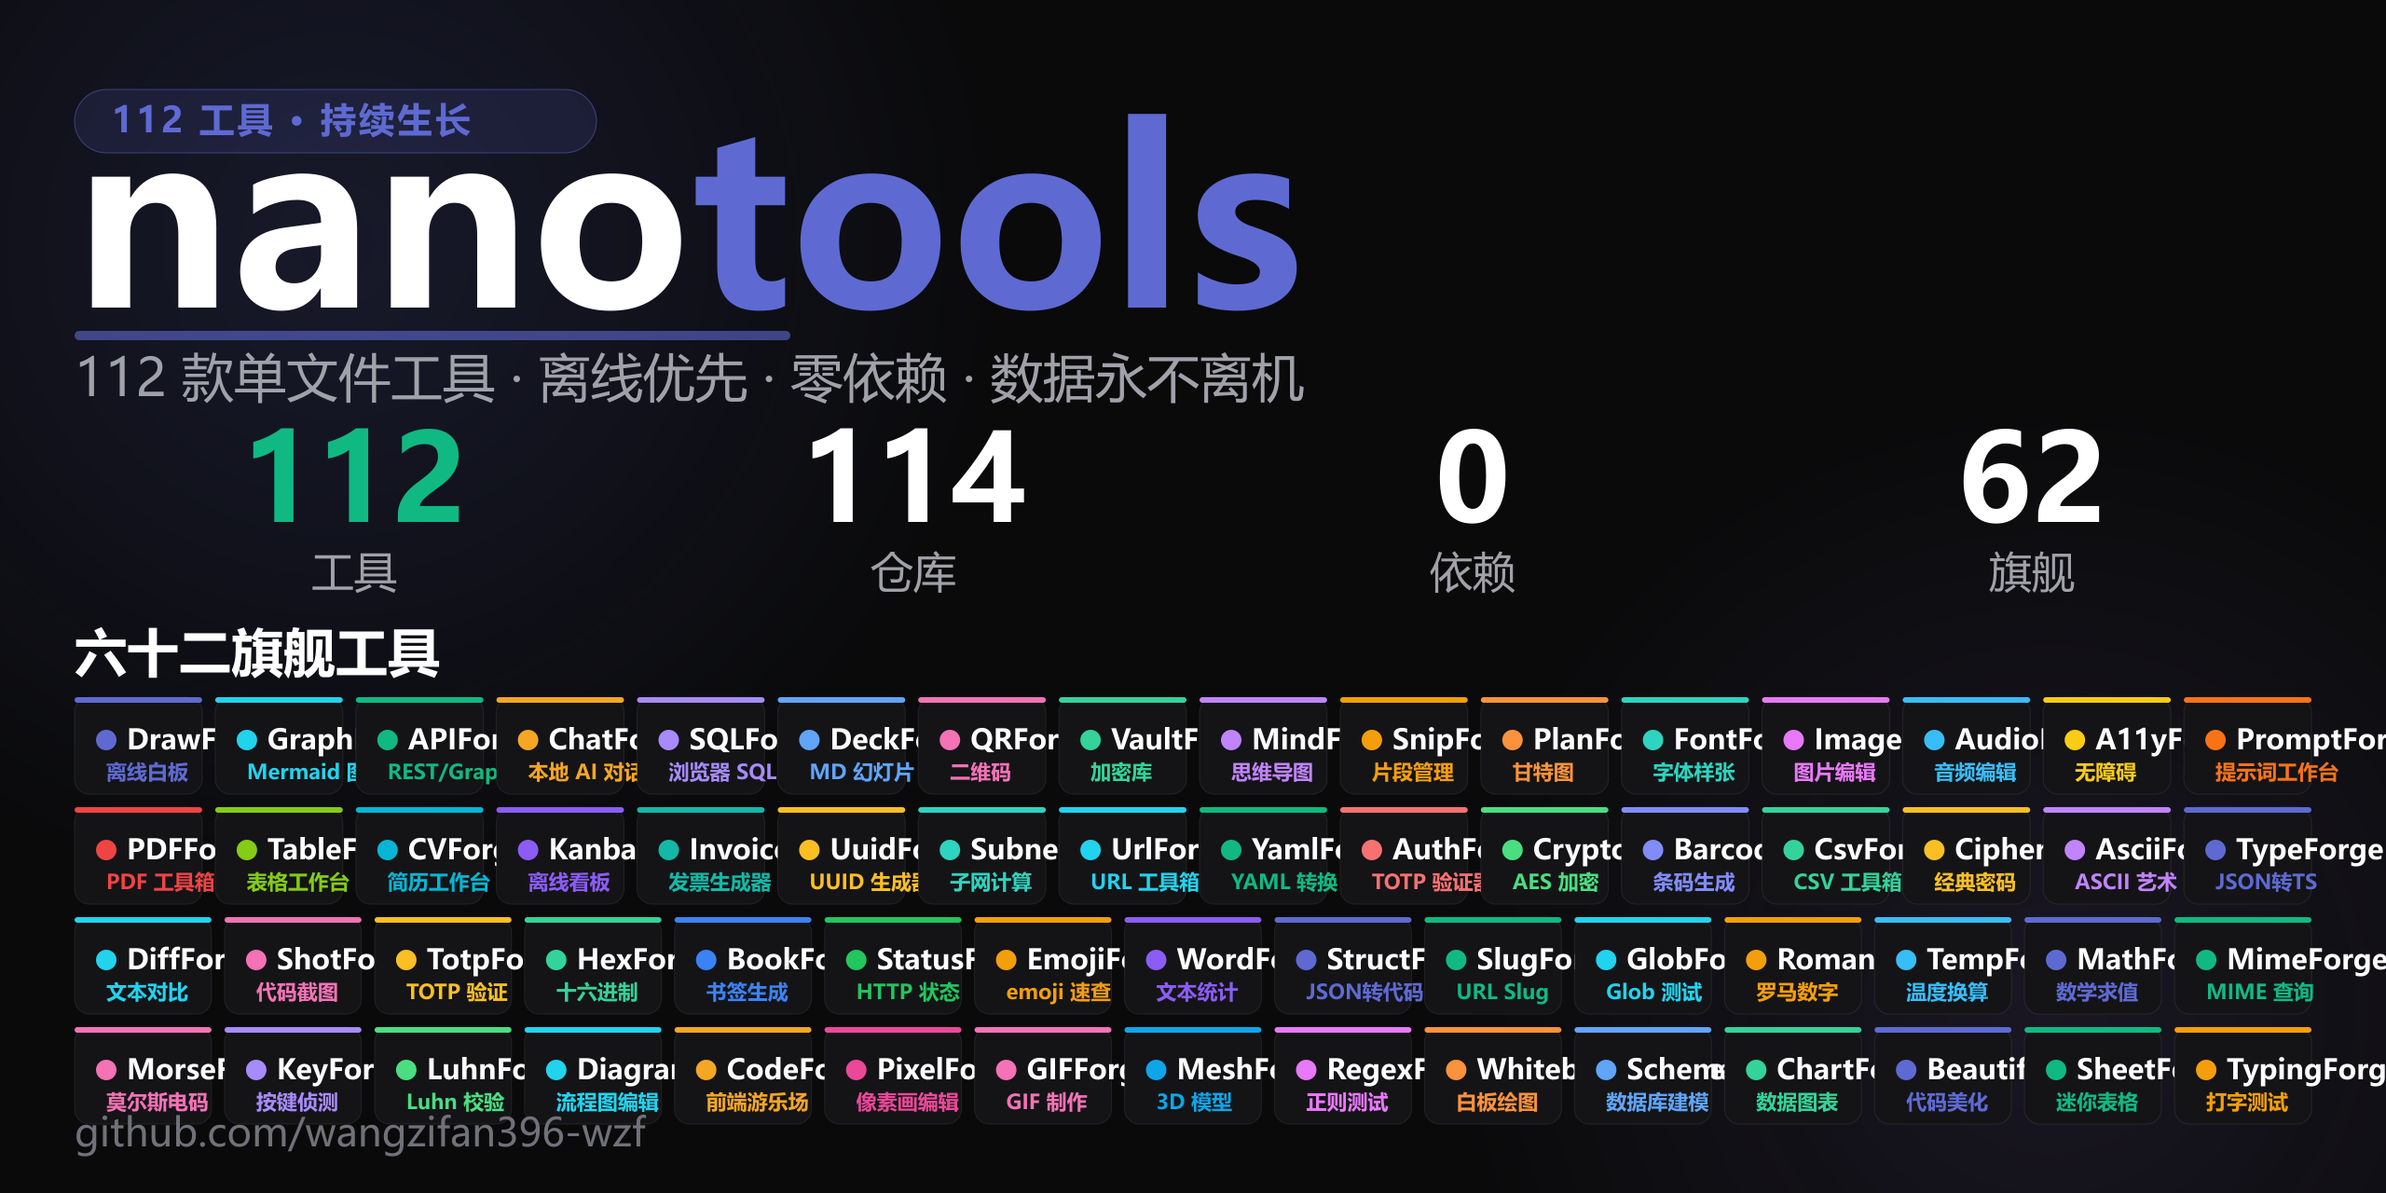
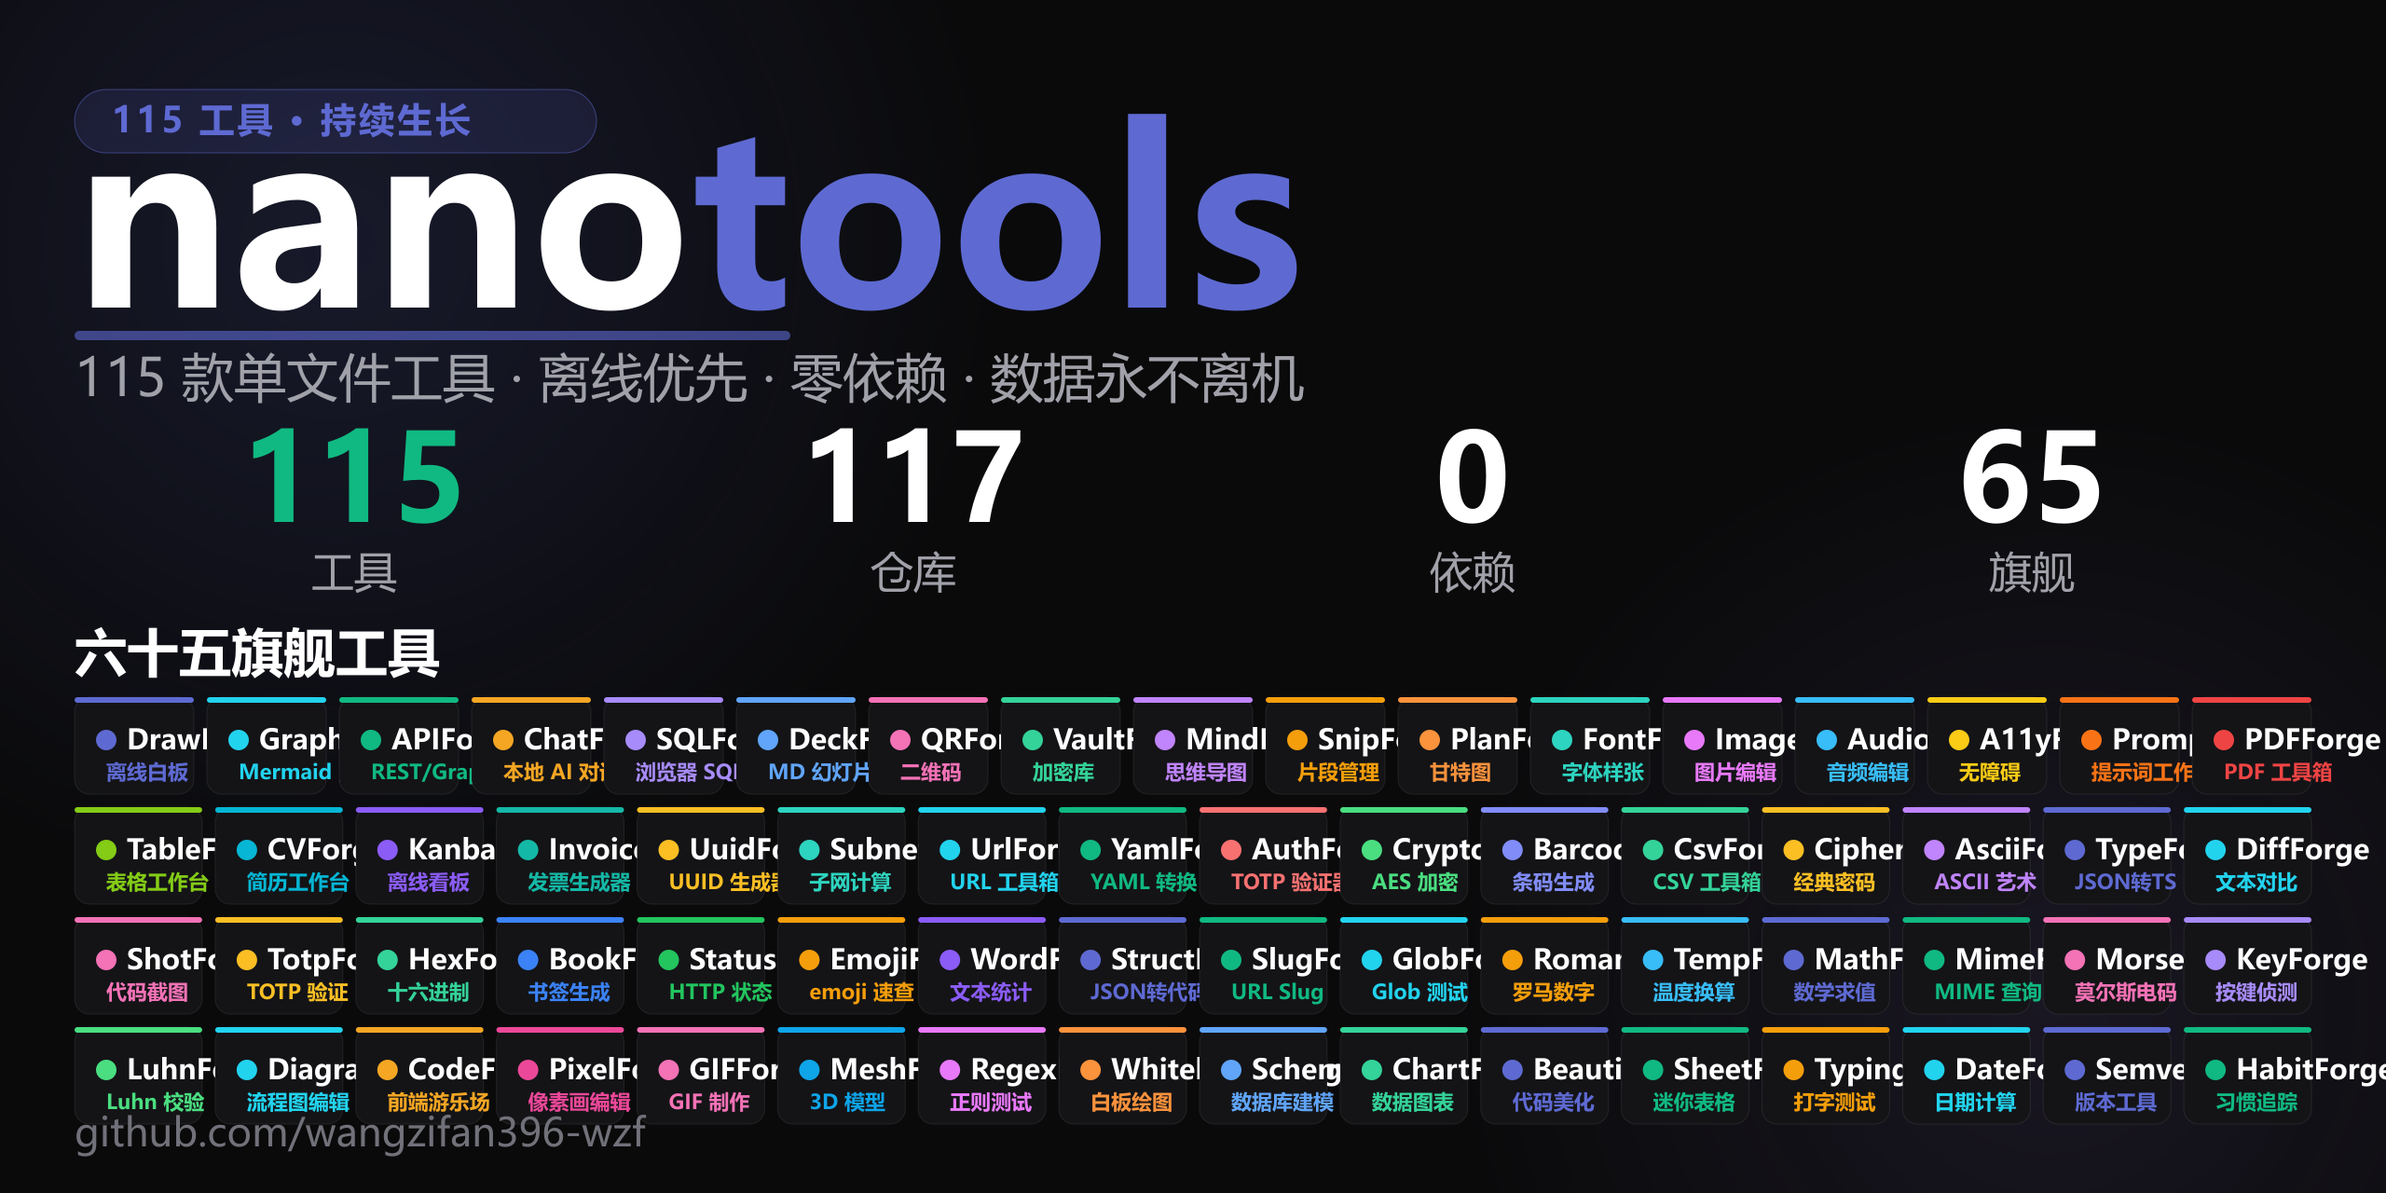
Add DateForge, SemverForge, HabitForge; matrix 115 tools / 117 repos / 65 flagships

diff --git a/index.html b/index.html
@@ -5,9 +5,9 @@
 <meta charset="UTF-8">
 <meta name="viewport" content="width=device-width, initial-scale=1.0">
 <title data-i18n="meta_title">nano-tools · 单文件零依赖工具集</title>
-<meta name="description" data-i18n="meta_desc" content="一个标签页，收纳你全部的开发者工具。112 个单文件、零依赖、本地优先的开源工具，下载即用，数据永不离机。">
+<meta name="description" data-i18n="meta_desc" content="一个标签页，收纳你全部的开发者工具。115 个单文件、零依赖、本地优先的开源工具，下载即用，数据永不离机。">
 <meta property="og:title" data-i18n="og_title" content="nano-tools · 单文件零依赖工具集">
-<meta property="og:description" data-i18n="og_desc" content="112 个单文件、零依赖、本地优先的开发者工具，下载即用，数据永不离机。">
+<meta property="og:description" data-i18n="og_desc" content="115 个单文件、零依赖、本地优先的开发者工具，下载即用，数据永不离机。">
 <meta property="og:image" content="social-preview.png">
 <meta property="og:image:width" content="1280">
 <meta property="og:image:height" content="640">
@@ -278,13 +278,13 @@
     <div class="hero-left">
       <span class="eyebrow"><span class="dot"></span><span data-i18n="hero_eyebrow">开源 · 零依赖 · 单文件</span></span>
       <h1 class="title" data-i18n-html="hero_title">一个标签页，<br>收纳你<span class="hl">全部的开发者工具</span></h1>
-      <p class="subtitle" data-i18n="hero_subtitle">112 个单文件、离线优先的开源工具，覆盖编码、转换、可视化与 AI。下载即用，数据永远留在你的浏览器里。</p>
+      <p class="subtitle" data-i18n="hero_subtitle">115 个单文件、离线优先的开源工具，覆盖编码、转换、可视化与 AI。下载即用，数据永远留在你的浏览器里。</p>
       <div class="hero-cta">
         <a class="btn primary" href="#tools" data-i18n="hero_browse">浏览工具 ↓</a>
         <a class="btn" href="https://github.com/wangzifan396-wzf" target="_blank" rel="noopener" data-i18n="hero_github">在 GitHub 查看</a>
       </div>
       <div class="hero-meta">
-        <span><b>114</b> <span data-i18n="meta_repos">开源仓库</span></span>
+        <span><b>117</b> <span data-i18n="meta_repos">开源仓库</span></span>
         <span><b>0</b> <span data-i18n="meta_deps">外部依赖</span></span>
         <span><b>100%</b> <span data-i18n="meta_local">本地运行</span></span>
       </div>
@@ -327,7 +327,7 @@
   <div class="wrap">
     <div class="sec-head reveal">
       <span class="label" data-i18n="tools_label">工具矩阵</span>
-      <h2 class="sec-title" data-i18n="tools_title">112 款精心打磨的开发者工具</h2>
+      <h2 class="sec-title" data-i18n="tools_title">115 款精心打磨的开发者工具</h2>
       <p class="sec-desc" data-i18n="tools_desc">搜索或按分类筛选，点击「在线试用」立即体验，或前往源码仓库查看实现。</p>
     </div>
     <div class="controls reveal">
@@ -385,7 +385,7 @@
 <div class="wrap">
   <div class="cta-band reveal" style="border-color:var(--acc);">
     <span class="pill ok" style="align-self:center;background:rgba(94,106,210,.16);color:#aab2f0;" data-i18n="wb_badge">★ 聚合工作台</span>
-    <h2 data-i18n="wb_title">一个标签页，收纳全部 112 款工具</h2>
+    <h2 data-i18n="wb_title">一个标签页，收纳全部 115 款工具</h2>
     <p data-i18n="wb_desc">nano-workbench：点选即在内嵌窗口运行、标签间即时切换，无需反复打开新页面。数据永不离机。</p>
     <div class="hero-cta">
       <a class="btn primary" href="https://wangzifan396-wzf.github.io/nano-workbench/" target="_blank" rel="noopener" data-i18n="wb_open">打开工作台 ↗</a>
@@ -397,7 +397,7 @@
 <div class="wrap">
   <div class="cta-band reveal">
     <h2 data-i18n="cta_title">把你下一个小工具，交给 nano-tools</h2>
-    <p data-i18n="cta_desc">114 个仓库、112 款工具，全部开源、零依赖、本地优先。</p>
+    <p data-i18n="cta_desc">117 个仓库、115 款工具，全部开源、零依赖、本地优先。</p>
     <div class="hero-cta">
       <a class="btn primary" href="#tools" data-i18n="cta_browse">开始浏览</a>
       <a class="btn" href="https://github.com/wangzifan396-wzf" target="_blank" rel="noopener">★ Star on GitHub</a>
@@ -425,16 +425,16 @@
   // 双语字典（中 / 英）。data-i18n 文本用 textContent；data-i18n-html 保留 <br>/<span> 结构；meta 改 content 属性。
   var I18N = {
     "meta_title":{zh:"nano-tools · 单文件零依赖工具集",en:"nano-tools · single-file, zero-dep tools"},
-    "meta_desc":{zh:"一个标签页，收纳你全部的开发者工具。112 个单文件、零依赖、本地优先的开源工具，下载即用，数据永不离机。",en:"One tab for all your dev tools. 112 single-file, zero-dep, local-first open-source tools. Download and use; data never leaves the browser."},
+    "meta_desc":{zh:"一个标签页，收纳你全部的开发者工具。115 个单文件、零依赖、本地优先的开源工具，下载即用，数据永不离机。",en:"One tab for all your dev tools. 115 single-file, zero-dep, local-first open-source tools. Download and use; data never leaves the browser."},
     "og_title":{zh:"nano-tools · 单文件零依赖工具集",en:"nano-tools · single-file, zero-dep tools"},
-    "og_desc":{zh:"112 个单文件、零依赖、本地优先的开发者工具，下载即用，数据永不离机。",en:"112 single-file, zero-dep, local-first dev tools. Download and use; data never leaves the browser."},
+    "og_desc":{zh:"115 个单文件、零依赖、本地优先的开发者工具，下载即用，数据永不离机。",en:"115 single-file, zero-dep, local-first dev tools. Download and use; data never leaves the browser."},
     "nav_features":{zh:"特性",en:"Features"},
     "nav_tools":{zh:"工具",en:"Tools"},
     "nav_stats":{zh:"数据",en:"Stats"},
     "nav_faq":{zh:"问答",en:"FAQ"},
     "hero_eyebrow":{zh:"开源 · 零依赖 · 单文件",en:"Open-source · Zero-dep · Single-file"},
     "hero_title":{zh:'一个标签页，<br>收纳你<span class="hl">全部的开发者工具</span>',en:'One tab, <br>for <span class="hl">all your dev tools</span>'},
-    "hero_subtitle":{zh:"112 个单文件、离线优先的开源工具，覆盖编码、转换、可视化与 AI。下载即用，数据永远留在你的浏览器里。",en:"112 single-file, offline-first open-source tools spanning encoding, conversion, visualization & AI. Download and use instantly; your data never leaves the browser."},
+    "hero_subtitle":{zh:"115 个单文件、离线优先的开源工具，覆盖编码、转换、可视化与 AI。下载即用，数据永远留在你的浏览器里。",en:"115 single-file, offline-first open-source tools spanning encoding, conversion, visualization & AI. Download and use instantly; your data never leaves the browser."},
     "hero_browse":{zh:"浏览工具 ↓",en:"Browse tools ↓"},
     "hero_github":{zh:"在 GitHub 查看",en:"View on GitHub"},
     "meta_repos":{zh:"开源仓库",en:"Open-source repos"},
@@ -450,16 +450,16 @@
     "step3_t":{zh:"单文件可携",en:"Portable single-file"},
     "step3_d":{zh:"每个工具只有一个 HTML 文件，零依赖、可随便复制分享，U 盘里也能跑。",en:"Each tool is one HTML file — zero dependencies, copy & share freely, runs from a USB stick."},
     "tools_label":{zh:"工具矩阵",en:"Tool matrix"},
-    "tools_title":{zh:"112 款精心打磨的开发者工具",en:"112 Hand-crafted Dev Tools"},
+    "tools_title":{zh:"115 款精心打磨的开发者工具",en:"115 Hand-crafted Dev Tools"},
     "tools_desc":{zh:"搜索或按分类筛选，点击「在线试用」立即体验，或前往源码仓库查看实现。",en:"Search or filter by category, hit “Live Demo” to try instantly, or visit the source repo."},
     "search_ph":{zh:"搜索工具… 试试 regex / json / 颜色 / 压缩 / 图表",en:"Search tools… try regex / json / color / compress / chart"},
     "btn_demo":{zh:"在线试用",en:"Live Demo"},
     "btn_src":{zh:"源码",en:"Source"},
     "no_result":{zh:"没有匹配的工具，换个关键词试试 🔍",en:"No matching tools — try another keyword 🔍"},
     "cta_title":{zh:"把你下一个小工具，交给 nano-tools",en:"Your next tiny tool, from nano-tools"},
-    "cta_desc":{zh:"114 个仓库、112 款工具，全部开源、零依赖、本地优先。",en:"114 repos, 112 tools. All open-source, zero-dep, local-first."},
+    "cta_desc":{zh:"117 个仓库、115 款工具，全部开源、零依赖、本地优先。",en:"117 repos, 115 tools. All open-source, zero-dep, local-first."},
     "wb_badge":{zh:"★ 聚合工作台",en:"★ Unified Workbench"},
-    "wb_title":{zh:"一个标签页，收纳全部 112 款工具",en:"All 112 tools in one tab"},
+    "wb_title":{zh:"一个标签页，收纳全部 115 款工具",en:"All 115 tools in one tab"},
     "wb_desc":{zh:"nano-workbench：点选即在内嵌窗口运行、标签间即时切换，无需反复打开新页面。数据永不离机。",en:"nano-workbench: pick a tool and run it in an embedded pane, switch tabs instantly — no more reopening pages. Data never leaves your machine."},
     "wb_open":{zh:"打开工作台 ↗",en:"Open Workbench ↗"},
     "wb_src":{zh:"查看源码",en:"View Source"},
@@ -823,7 +823,16 @@
      tags:["spreadsheet","formula","csv","grid"]},
     {id:"TypingForge", name:"TypingForge", icon:"typing", cat:"效率工具", badge:"旗舰",
      desc:"离线打字速度测试：WPM / CPM / 准确率 / 稳定性，逐字符实时高亮，15/30/60 秒模式，可复现词表与本地最佳记录。",
-     tags:["typing","wpm","test","speed"]}
+     tags:["typing","wpm","test","speed"]},
+    {id:"DateForge", name:"DateForge", icon:"date", cat:"效率工具", badge:"旗舰",
+     desc:"离线日期计算器：日期间隔（年月日精确拆分）、加减推算、ISO 周 / 年积日 / 工作日、年龄与下次生日，纯整数序列算法无时区陷阱。",
+     tags:["date","diff","iso-week","workdays","age"]},
+    {id:"SemverForge", name:"SemverForge", icon:"semver", cat:"开发辅助", badge:"旗舰",
+     desc:"离线 SemVer 2.0.0 工具箱：版本解析校验、优先级比较排序、范围匹配（^ ~ x.* || 连字符）、bump 七种递增策略与版本差异判定。",
+     tags:["semver","version","range","bump"]},
+    {id:"HabitForge", name:"HabitForge", icon:"habit", cat:"效率工具", badge:"旗舰",
+     desc:"离线习惯追踪器：每日打卡、当前 / 最长连击、近 30 天完成率、半年热力图，数据只存本地，支持 JSON 导入导出。",
+     tags:["habit","streak","heatmap","privacy"]}
   ];
 
   // 英文文案（按 id 索引；门户双语切换用）
@@ -940,7 +949,10 @@
     ChartForge:{desc:"Offline data chart generator: paste CSV / JSON / TSV, render bar / line / pie / doughnut / scatter / area charts, export PNG and SVG.", cat:"Data"},
     BeautifyForge:{desc:"Offline code beautifier & minifier for JavaScript, CSS, HTML and JSON. String / comment / regex-aware tokenizer, auto-detect language, live char count.", cat:"Dev"},
     SheetForge:{desc:"Offline mini spreadsheet with a real formula engine: A1 refs, ranges, SUM/AVG/IF/ROUND, dependency-graph recalc with cycle detection, CSV import/export.", cat:"Data"},
-    TypingForge:{desc:"Offline typing-speed test: WPM / CPM / accuracy / consistency, per-char live highlight, 15/30/60s modes, seeded reproducible word lists, local best scores.", cat:"Productivity"}
+    TypingForge:{desc:"Offline typing-speed test: WPM / CPM / accuracy / consistency, per-char live highlight, 15/30/60s modes, seeded reproducible word lists, local best scores.", cat:"Productivity"},
+    DateForge:{desc:"Offline date calculator: exact Y/M/D diff, add/subtract, ISO week, day-of-year, workdays, age & next birthday. Pure integer serial math, no timezone traps.", cat:"Productivity"},
+    SemverForge:{desc:"Offline SemVer 2.0.0 toolbox: parse & validate, precedence compare & sort, range matching (^ ~ x.* || hyphen), 7 bump strategies and release diff.", cat:"Dev"},
+    HabitForge:{desc:"Offline habit tracker: daily check-ins, current/longest streak, 30-day rate, half-year heatmap. Data stays local with JSON import/export.", cat:"Productivity"}
   };
   // 中文分类 -> 英文分类 映射
   var CAT_EN = {"全部":"All"};
@@ -1058,7 +1070,10 @@
     chart:'<path d="M4 20V10M10 20V4M16 20v-7M22 20H2"/>',
     beautify:'<path d="M15 4l1.2 3.3L19.5 8.5l-3.3 1.2L15 13l-1.2-3.3L10.5 8.5l3.3-1.2z"/><path d="M4 20l9-9"/>',
     sheet:'<rect x="3" y="4" width="18" height="16" rx="2"/><path d="M3 10h18M3 15h18M9 4v16M15 4v16"/>',
-    typing:'<rect x="3" y="7" width="18" height="10" rx="2"/><path d="M7 11h.01M11 11h.01M15 11h.01M8 14h8" stroke-linecap="round"/><path d="M9 17h6"/>'
+    typing:'<rect x="3" y="7" width="18" height="10" rx="2"/><path d="M7 11h.01M11 11h.01M15 11h.01M8 14h8" stroke-linecap="round"/><path d="M9 17h6"/>',
+    date:'<rect x="3" y="5" width="18" height="16" rx="2"/><path d="M3 10h18M8 3v4M16 3v4"/><path d="M9 15l2 2 4-4"/>',
+    semver:'<path d="M12 3l8 4.5v9L12 21l-8-4.5v-9z"/><path d="M12 12l8-4.5M12 12v9M12 12L4 7.5"/>',
+    habit:'<rect x="3" y="4" width="4" height="4" rx="1"/><rect x="10" y="4" width="4" height="4" rx="1"/><rect x="17" y="4" width="4" height="4" rx="1"/><rect x="3" y="11" width="4" height="4" rx="1"/><rect x="10" y="11" width="4" height="4" rx="1"/><path d="M17 13l1.5 1.5L21.5 11.5"/><path d="M3 20h18"/>'
   };
   function iconSvg(k){ return '<svg viewBox="0 0 24 24" fill="none" stroke="currentColor" stroke-width="1.8" stroke-linecap="round" stroke-linejoin="round">'+(ICONS[k]||"")+'</svg>'; }
 
@@ -1068,7 +1083,7 @@
   var $ = function(s,el){return (el||document).querySelector(s);};
   var state = {q:"", cat:"全部", flag:false, fav:false};
   var LANG = (function(){ try{return localStorage.getItem("nano-lang")||"zh";}catch(e){return "zh";} })();
-  var FLAG_IDS = {"DrawForge":1,"GraphForge":1,"APIForge":1,"ChatForge":1,"SQLForge":1,"DeckForge":1,"QRForge":1,"VaultForge":1,"MindForge":1,"SnipForge":1,"PlanForge":1,"FontForge":1,"ImageForge":1,"AudioForge":1,"A11yForge":1,"PromptForge":1,"PDFForge":1,"TableForge":1,"CVForge":1,"KanbanForge":1,"InvoiceForge":1,"UuidForge":1,"SubnetForge":1,"UrlForge":1,"YamlForge":1,"AuthForge":1,"CryptoForge":1,"BarcodeForge":1,"CsvForge":1,"CipherForge":1,"AsciiForge":1,"TypeForge":1,"DiffForge":1,"ShotForge":1,"TotpForge":1,"HexForge":1,"BookForge":1,"StatusForge":1,"EmojiForge":1,"WordForge":1,"StructForge":1,"SlugForge":1,"GlobForge":1,"RomanForge":1,"TempForge":1,"MathForge":1,"MimeForge":1,"MorseForge":1,"KeyForge":1,"LuhnForge":1,"DiagramForge":1,"CodeForge":1,"PixelForge":1,"GIFForge":1,"MeshForge":1,"RegexForge":1,"WhiteboardForge":1,"SchemaForge":1,"ChartForge":1,"BeautifyForge":1,"SheetForge":1,"TypingForge":1};
+  var FLAG_IDS = {"DrawForge":1,"GraphForge":1,"APIForge":1,"ChatForge":1,"SQLForge":1,"DeckForge":1,"QRForge":1,"VaultForge":1,"MindForge":1,"SnipForge":1,"PlanForge":1,"FontForge":1,"ImageForge":1,"AudioForge":1,"A11yForge":1,"PromptForge":1,"PDFForge":1,"TableForge":1,"CVForge":1,"KanbanForge":1,"InvoiceForge":1,"UuidForge":1,"SubnetForge":1,"UrlForge":1,"YamlForge":1,"AuthForge":1,"CryptoForge":1,"BarcodeForge":1,"CsvForge":1,"CipherForge":1,"AsciiForge":1,"TypeForge":1,"DiffForge":1,"ShotForge":1,"TotpForge":1,"HexForge":1,"BookForge":1,"StatusForge":1,"EmojiForge":1,"WordForge":1,"StructForge":1,"SlugForge":1,"GlobForge":1,"RomanForge":1,"TempForge":1,"MathForge":1,"MimeForge":1,"MorseForge":1,"KeyForge":1,"LuhnForge":1,"DiagramForge":1,"CodeForge":1,"PixelForge":1,"GIFForge":1,"MeshForge":1,"RegexForge":1,"WhiteboardForge":1,"SchemaForge":1,"ChartForge":1,"BeautifyForge":1,"SheetForge":1,"TypingForge":1,"DateForge":1,"SemverForge":1,"HabitForge":1};
   var FAV_KEY = "nano-favs";
   function getFavs(){ try{return JSON.parse(localStorage.getItem(FAV_KEY)||"[]");}catch(e){return [];} }
   function setFav(id,on){ var s=getFavs(); var i=s.indexOf(id); if(on&&i<0)s.push(id); if(!on&&i>=0)s.splice(i,1); try{localStorage.setItem(FAV_KEY,JSON.stringify(s));}catch(e){} }
